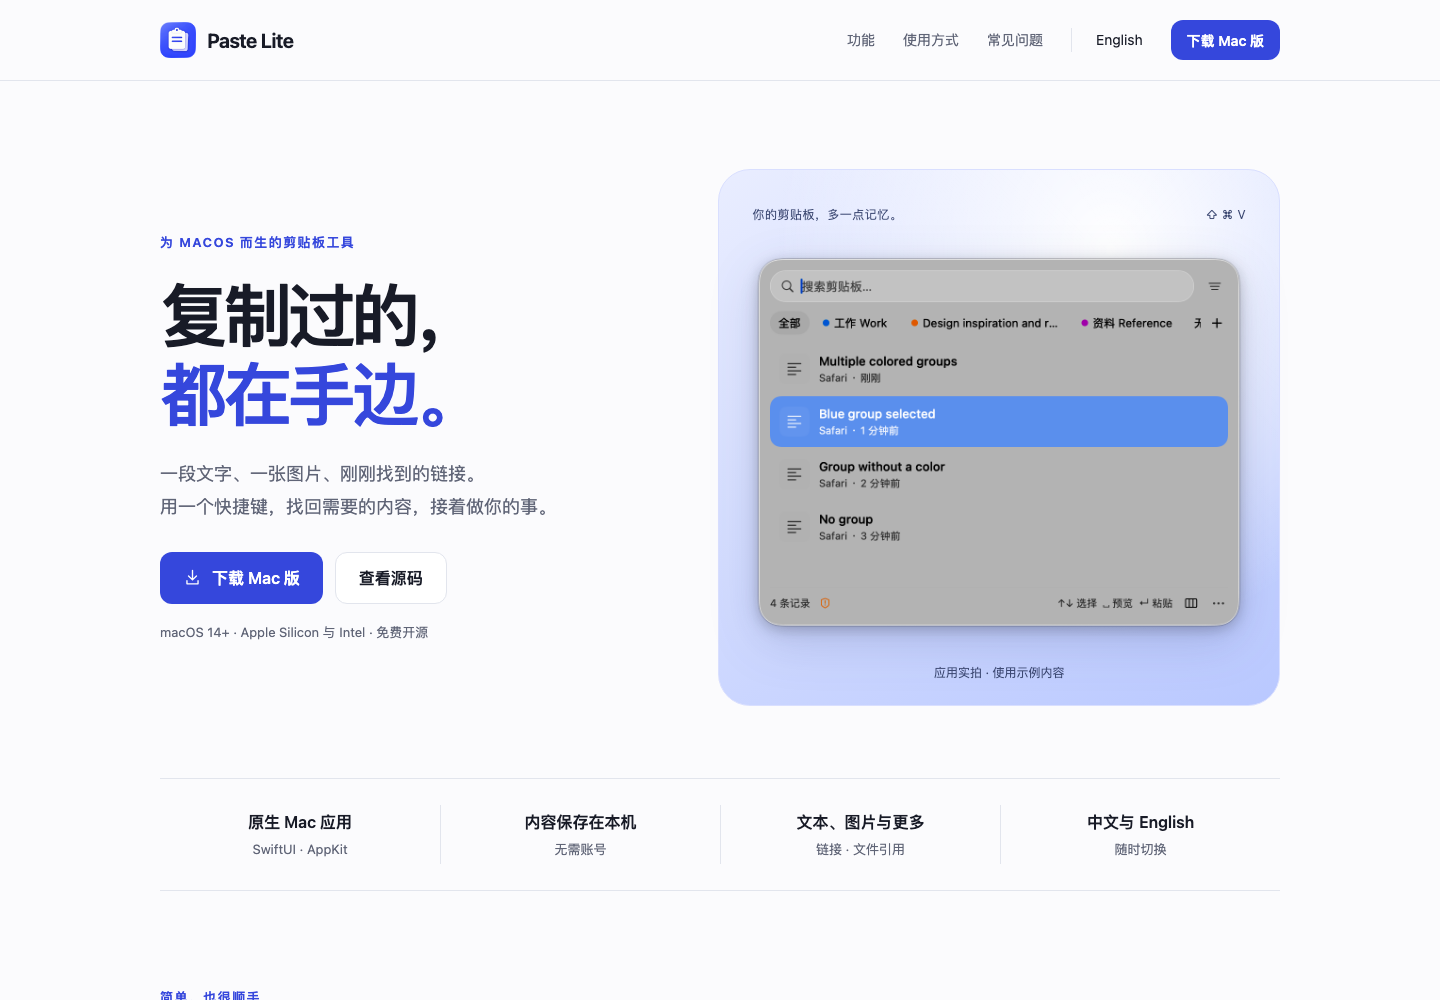
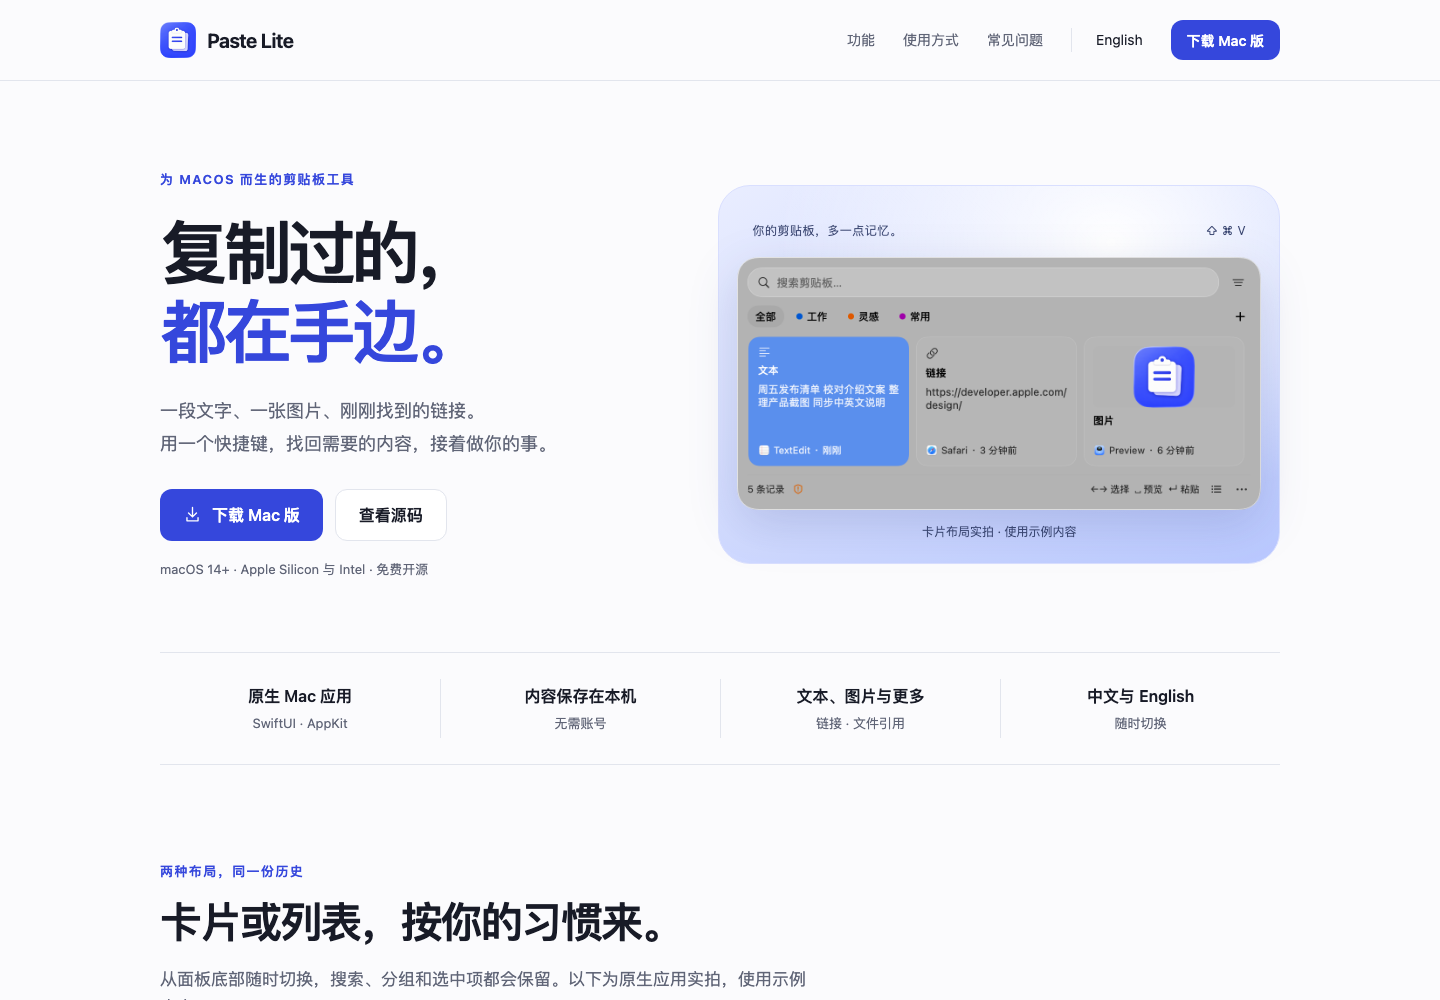
feat: showcase actual card and list layouts in both languages

diff --git a/website/en/index.html b/website/en/index.html
@@ -48,11 +48,37 @@
             </div>
             <figure class="hero-visual">
                 <div class="visual-topline" aria-hidden="true"><span>A little more memory for your clipboard.</span><span>⇧ ⌘ V</span></div>
-                <img src="../assets/group-tabs-light.png" width="1112" height="872" alt="Paste Lite in light appearance, showing search, colored group tabs and sample clipboard history" fetchpriority="high">
-                <figcaption>Actual app · Sample content</figcaption>
+                <picture>
+                    <source media="(prefers-color-scheme: dark)" srcset="../assets/website-cards-en-dark.png">
+                    <img src="../assets/website-cards-en-light.png" width="1200" height="580" alt="Actual Paste Lite Cards layout showing sample text, a link and an image" fetchpriority="high">
+                </picture>
+                <figcaption>Actual Cards layout · Sample content</figcaption>
             </figure>
         </section>
         <div class="container overview"><div><strong>Native to your Mac</strong><span>SwiftUI · AppKit</span></div><div><strong>Stored on your Mac</strong><span>No account needed</span></div><div><strong>Text, images & more</strong><span>Links · File references</span></div><div><strong>English & 中文</strong><span>Switch at any time</span></div></div>
+        <section id="layouts" class="container section layouts" aria-labelledby="layouts-title">
+            <div class="section-heading">
+                <p class="eyebrow">Two layouts. One clipboard history.</p>
+                <h2 id="layouts-title">A little more visual. Or a little more compact.</h2>
+                <p>Switch from the panel footer while keeping your search, groups and selection. These are actual app screenshots with sample content.</p>
+            </div>
+            <div class="layout-gallery">
+                <figure>
+                    <div class="layout-image"><picture>
+                        <source media="(prefers-color-scheme: dark)" srcset="../assets/website-cards-en-dark.png">
+                        <img src="../assets/website-cards-en-light.png" width="1200" height="580" loading="lazy" alt="Actual Paste Lite Cards layout showing sample text, a link and an image">
+                    </picture></div>
+                    <figcaption><strong>Cards</strong><span>Browse horizontally, with text snippets and image previews in view.</span></figcaption>
+                </figure>
+                <figure>
+                    <div class="layout-image"><picture>
+                        <source media="(prefers-color-scheme: dark)" srcset="../assets/website-list-en-dark.png">
+                        <img src="../assets/website-list-en-light.png" width="1020" height="780" loading="lazy" alt="Actual Paste Lite List layout showing the same sample history">
+                    </picture></div>
+                    <figcaption><strong>List</strong><span>A compact vertical view of titles, source apps and timestamps.</span></figcaption>
+                </figure>
+            </div>
+        </section>
         <section id="features" class="container section" aria-labelledby="features-title">
             <div class="section-heading">
                 <p class="eyebrow">Small app. Everyday useful.</p>

diff --git a/website/index.html b/website/index.html
@@ -48,11 +48,37 @@
             </div>
             <figure class="hero-visual">
                 <div class="visual-topline" aria-hidden="true"><span>你的剪贴板，多一点记忆。</span><span>⇧ ⌘ V</span></div>
-                <img src="assets/group-tabs-light.png" width="1112" height="872" alt="Paste Lite 浅色列表界面，展示搜索、彩色分组标签与示例历史记录" fetchpriority="high">
-                <figcaption>应用实拍 · 使用示例内容</figcaption>
+                <picture>
+                    <source media="(prefers-color-scheme: dark)" srcset="assets/website-cards-zh-dark.png">
+                    <img src="assets/website-cards-zh-light.png" width="1200" height="580" alt="Paste Lite 卡片布局实拍，展示示例文字、链接和图片" fetchpriority="high">
+                </picture>
+                <figcaption>卡片布局实拍 · 使用示例内容</figcaption>
             </figure>
         </section>
         <div class="container overview"><div><strong>原生 Mac 应用</strong><span>SwiftUI · AppKit</span></div><div><strong>内容保存在本机</strong><span>无需账号</span></div><div><strong>文本、图片与更多</strong><span>链接 · 文件引用</span></div><div><strong>中文与 English</strong><span>随时切换</span></div></div>
+        <section id="layouts" class="container section layouts" aria-labelledby="layouts-title">
+            <div class="section-heading">
+                <p class="eyebrow">两种布局，同一份历史</p>
+                <h2 id="layouts-title">卡片或列表，按你的习惯来。</h2>
+                <p>从面板底部随时切换，搜索、分组和选中项都会保留。以下为原生应用实拍，使用示例内容。</p>
+            </div>
+            <div class="layout-gallery">
+                <figure>
+                    <div class="layout-image"><picture>
+                        <source media="(prefers-color-scheme: dark)" srcset="assets/website-cards-zh-dark.png">
+                        <img src="assets/website-cards-zh-light.png" width="1200" height="580" loading="lazy" alt="Paste Lite 卡片布局实拍，展示示例文字、链接和图片">
+                    </picture></div>
+                    <figcaption><strong>卡片布局</strong><span>横向浏览，文字摘要和图片预览一眼可见。</span></figcaption>
+                </figure>
+                <figure>
+                    <div class="layout-image"><picture>
+                        <source media="(prefers-color-scheme: dark)" srcset="assets/website-list-zh-dark.png">
+                        <img src="assets/website-list-zh-light.png" width="1020" height="780" loading="lazy" alt="Paste Lite 列表布局实拍，展示相同的示例历史记录">
+                    </picture></div>
+                    <figcaption><strong>列表布局</strong><span>纵向排列，更紧凑地查看标题、来源与时间。</span></figcaption>
+                </figure>
+            </div>
+        </section>
         <section id="features" class="container section" aria-labelledby="features-title">
             <div class="section-heading">
                 <p class="eyebrow">简单，也很顺手</p>

diff --git a/website/styles.css b/website/styles.css
@@ -48,7 +48,7 @@ h1 span { color: var(--blue); }
 .compatibility { margin: 18px 0 0; font-size: 13px; color: var(--muted); }
 .hero-visual { margin: 0; position: relative; padding: 35px 18px 22px; border: 1px solid #d9dfff; border-radius: 32px; background: radial-gradient(ellipse at 70% 15%, #fff 0, transparent 60%), linear-gradient(150deg, #e9edff, #b9c8ff); }
 .visual-topline { display: flex; align-items: center; justify-content: space-between; gap: 12px; padding-inline: 15px; margin-bottom: 16px; color: #3d4973; font-size: 12px; letter-spacing: .04em; }
-.hero-visual > img { width: 100%; filter: drop-shadow(0 15px 24px #23337329); }
+.hero-visual > picture img { width: 100%; filter: drop-shadow(0 15px 24px #23337329); }
 .hero-visual figcaption { text-align: center; color: #3d4973; font-size: 12px; margin-top: 12px; }
 .overview { display: grid; grid-template-columns: repeat(4, 1fr); padding-block: 26px; border-block: 1px solid var(--line); }
 .overview div { text-align: center; padding: 4px 12px; }
@@ -60,6 +60,15 @@ h1 span { color: var(--blue); }
 .section-heading .eyebrow { margin-bottom: 12px; }
 h2 { font-size: clamp(30px, 3.4vw, 42px); line-height: 1.3; letter-spacing: -.045em; margin-bottom: 16px; }
 .section-heading > p:last-child { color: var(--muted); font-size: 17px; }
+.layouts { padding-bottom: 0; }
+.layout-gallery { display: grid; grid-template-columns: 1.15fr 1fr; gap: 24px; }
+.layout-gallery figure { margin: 0; padding: 28px 24px 24px; background: var(--soft); border: 1px solid var(--line); border-radius: var(--radius); }
+.layout-image { height: 330px; display: flex; align-items: center; justify-content: center; }
+.layout-image picture { display: block; width: 100%; }
+.layout-image img { max-height: 330px; width: 100%; object-fit: contain; filter: drop-shadow(0 10px 16px #2333731a); }
+.layout-gallery figcaption { margin-top: 24px; }
+.layout-gallery figcaption strong { display: block; font-size: 18px; margin-bottom: 6px; }
+.layout-gallery figcaption span { color: var(--muted); font-size: 15px; }
 .features { display: grid; grid-template-columns: repeat(3, 1fr); gap: 20px; }
 .feature { padding: 28px; border: 1px solid var(--line); border-radius: var(--radius); background: var(--surface); }
 .feature-icon { width: 42px; height: 42px; display: grid; place-items: center; background: var(--soft); color: var(--blue); border-radius: 12px; margin-bottom: 24px; }
@@ -147,6 +156,11 @@ details p:last-child { margin-bottom: 0; }
     .overview strong { font-size: 15px; }
     .overview span { font-size: 12px; }
     .section { padding-block: 60px; }
+    .layouts { padding-bottom: 0; }
+    .layout-gallery { grid-template-columns: 1fr; }
+    .layout-gallery figure { padding: 24px 16px; }
+    .layout-image { height: auto; }
+    .layout-image img { max-height: none; }
     .features, .workflow-grid, .groups, .faq { grid-template-columns: 1fr; gap: 24px; }
     .feature { padding: 24px; }
     .feature-icon { margin-bottom: 18px; }

diff --git a/CHANGELOG.md b/CHANGELOG.md
@@ -8,7 +8,7 @@ Notable changes to Paste Lite are recorded here.
 
 ### Website
 
-- Add a Chinese and English product website with app screenshots, feature and shortcut guides, installation FAQs, and links to the latest release. The website supports mobile screens and system light/dark appearance and deploys independently through GitHub Pages.
+- Add a Chinese and English product website with actual Cards and List screenshots in both languages and appearances, feature and shortcut guides, installation FAQs, and links to the latest release. The website supports mobile screens and system light/dark appearance and deploys independently through GitHub Pages.
 
 ## [1.2.2](https://github.com/wygkzqa/paste-lite/releases/tag/v1.2.2) — 2026-09-28
 

diff --git a/CHANGELOG.zh-CN.md b/CHANGELOG.zh-CN.md
@@ -8,7 +8,7 @@
 
 ### 官网
 
-- 新增中英文产品官网，提供应用截图、功能与快捷键介绍、安装常见问题及最新正式版下载入口；适配手机与系统浅色、深色外观，通过 GitHub Pages 独立部署。
+- 新增中英文产品官网，提供中英文及浅深色的卡片和列表实拍、功能与快捷键介绍、安装常见问题及最新正式版下载入口；适配手机与系统浅色、深色外观，通过 GitHub Pages 独立部署。
 
 ## [1.2.2](https://github.com/wygkzqa/paste-lite/releases/tag/v1.2.2) — 2026-09-28
 
